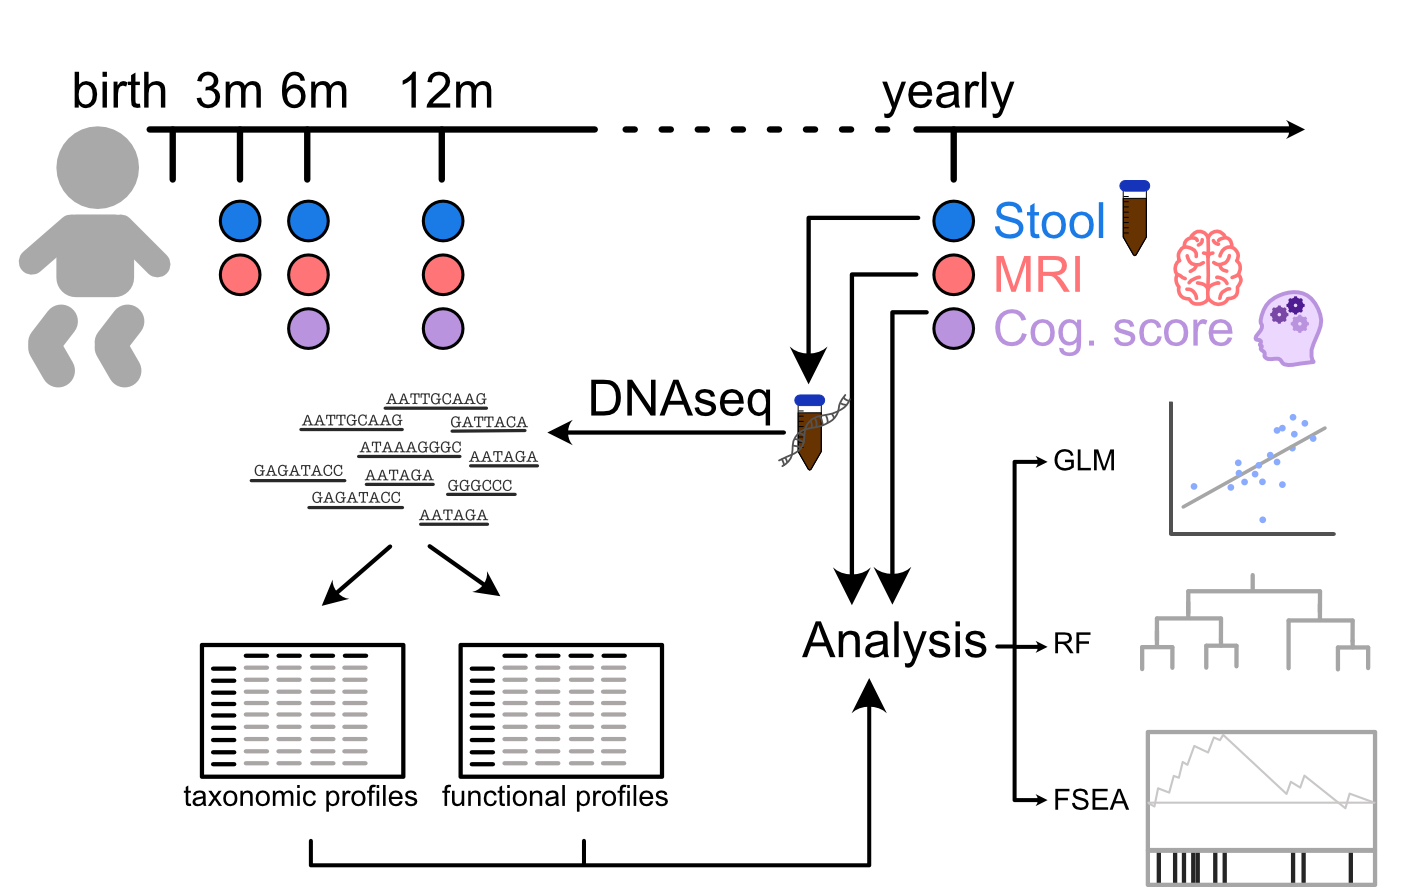
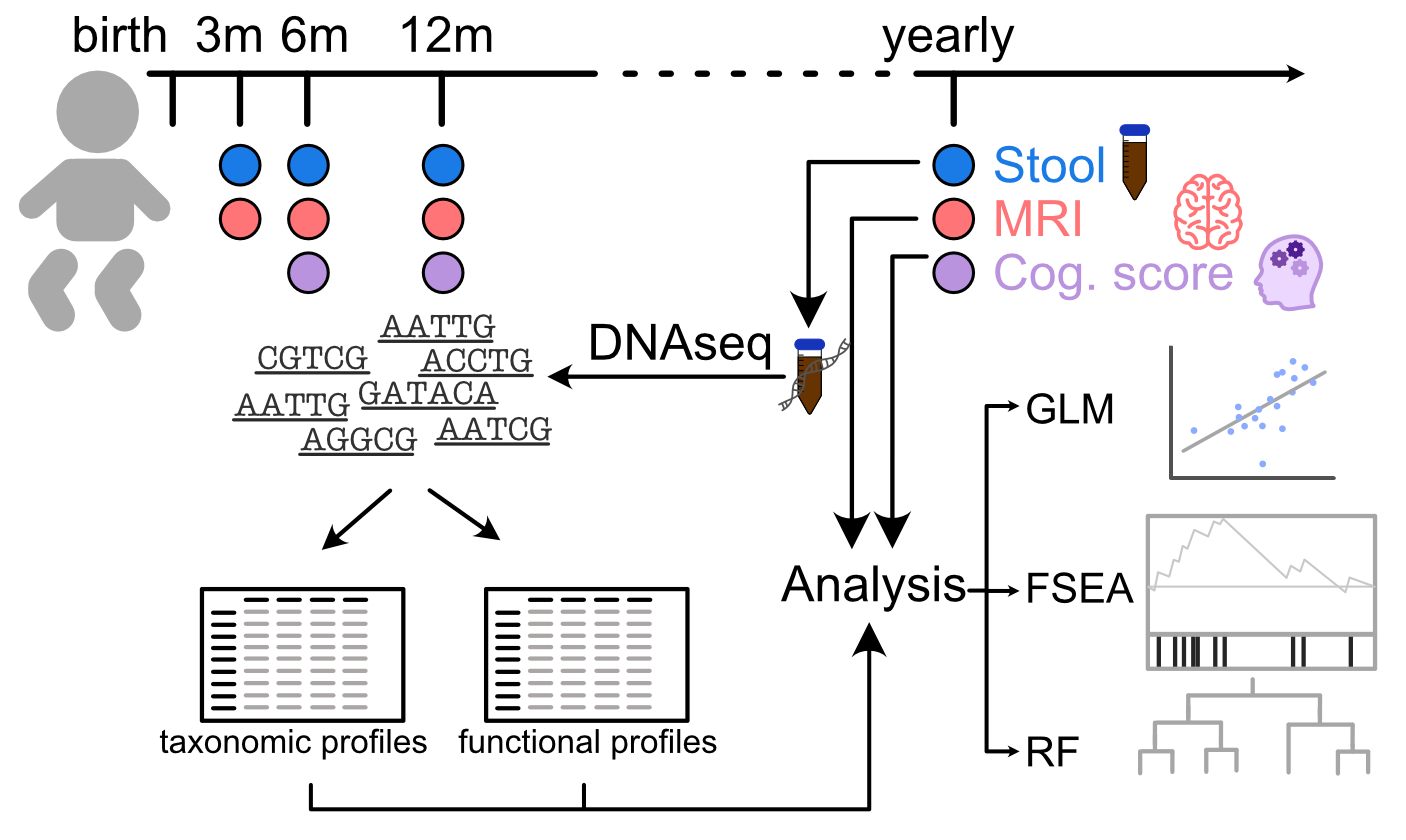
attempt fig 1

diff --git a/manuscript/Figure1.md b/manuscript/Figure1.md
@@ -71,12 +71,12 @@ hidespines!(A_img)
 
 image!(A_img, rotr90(load("manuscript/assets/Figure1A.jpg")))
 
-bax1 = Axis(B[1,1]; xlabel = "Age (months)", ylabel = "cogScore", xticks=(4:4:24), limits=((2,24), nothing), alignmode = Mixed(; left=-15))
+bax1 = Axis(B[1,1]; xlabel = "Age (months)", ylabel = "cogScore", xticks=(4:4:24), limits=((2,24), nothing))
 bax2 = Axis(B[1,2]; xlabel = "Age (years)", xticks = (4:2:12), limits=((2,nothing), nothing))
 hideydecorations!(bax2)
 linkyaxes!(bax1, bax2)
 
-let
+bleg = let
     u2y = findall(p-> !ismissing(p[2]) && p[1] <= 24, collect(zip(mdata.ageMonths, mdata.cogScore)))
     o2y = findall(p-> !ismissing(p[2]) && p[1] > 24, collect(zip(mdata.ageMonths, mdata.cogScore)))
 
@@ -96,7 +96,7 @@ let
     # TODO: add colors for training/test sets in later models
 
     Legend(B[1, 3], [MarkerElement(; marker=:circle, color=c) for c in cs[1:3]],
-                      ["MSEL", "WPPSI", "WISC"], "Assessment";
+                      ["MSEL", "WPPSI", "WISC"];
     )
 end
 
@@ -184,12 +184,12 @@ plot_mantel!(Hb, CSV.read(scratchfiles("mantel_18to120.csv"), DataFrame))
 Label(A[1, 1, TopLeft()], "A",
         fontsize = 20,
         font = "Open Sans Bold",
-        halign = :right
+        halign = :right,
 )
 Label(B[1, 1, TopLeft()], "B",
         fontsize = 20,
         font = "Open Sans Bold",
-        halign = :right
+        halign = :right,
 )
 Label(CDEF[1, 1, TopLeft()], "C",
         fontsize = 20,
@@ -225,6 +225,7 @@ Label(H[1, 1, TopLeft()], "H",
 
  
 colsize!(figure.layout, 1, Relative(1/3))
+A_img.alignmode = Mixed(; top=-20, bottom=0, left=-20, right=-30)
 figure
 ```
 
